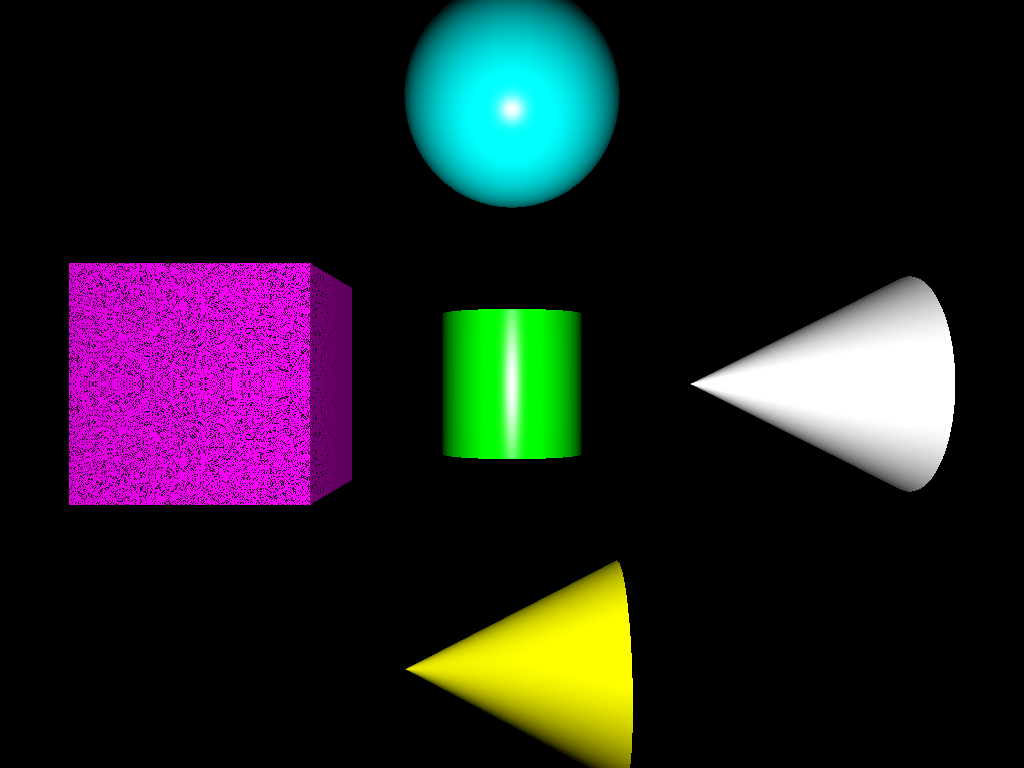
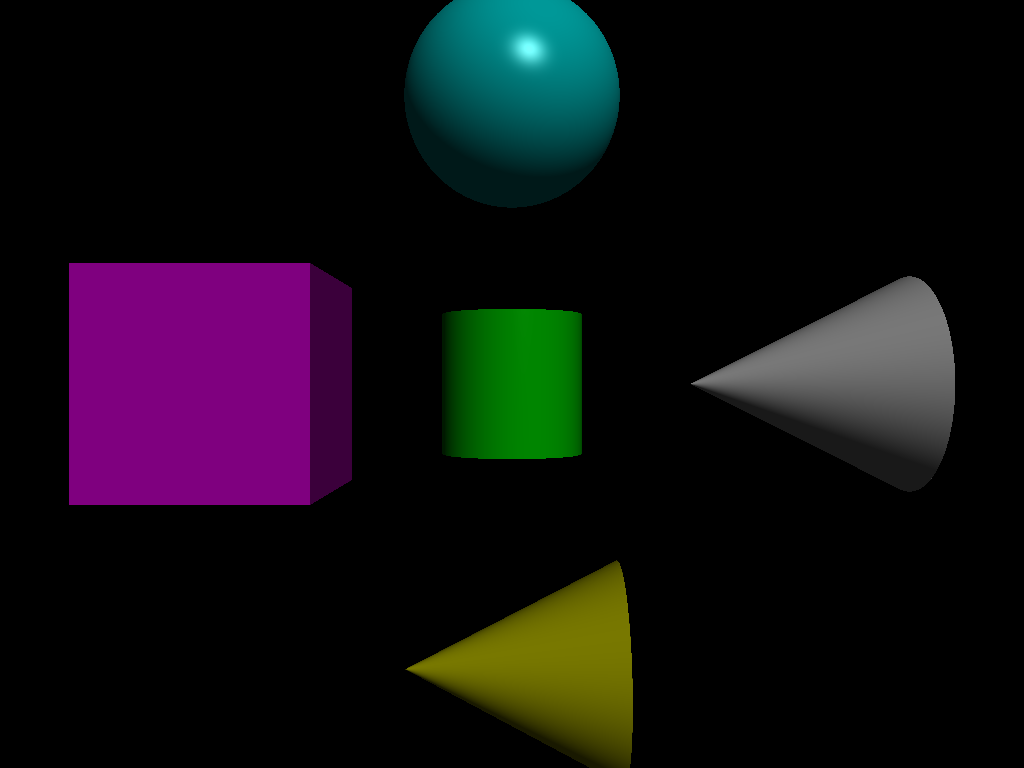
finished

diff --git a/src/shapes/cone.cpp b/src/shapes/cone.cpp
@@ -17,29 +17,39 @@ bool Cone::rayIntersect(const Ray& ray, float& t, glm::vec3& hitPoint, glm::vec3
     std::vector<float> tVals = std::vector<float>();
 
     // Conical Top Intersection
-    float t1 = (-b + glm::sqrt(d)) / (2 * a);
-    float t2 = (-b - glm::sqrt(d)) / (2 * a);
+    if (!(d < 0)) {
 
-    glm::vec3 p1 = ray.origin + t1 * ray.direction;
-    glm::vec3 p2 = ray.origin + t2 * ray.direction;
+        float t1 = (-b + glm::sqrt(d)) / (2 * a);
+        float t2 = (-b - glm::sqrt(d)) / (2 * a);
 
-    if ((p1.y < 0.5 && p1.y > -0.5) && t1 > 0) tVals.push_back(t1);
-    if ((p2.y < 0.5 && p2.y > -0.5) && t2 > 0) tVals.push_back(t2);
+        glm::vec3 p1 = ray.origin + t1 * ray.direction;
+        glm::vec3 p2 = ray.origin + t2 * ray.direction;
+
+        if ((p1.y < 0.5 && p1.y > -0.5) && t1 > 0) tVals.push_back(t1);
+        if ((p2.y < 0.5 && p2.y > -0.5) && t2 > 0) tVals.push_back(t2);
+
+    }
 
     // Base Intersection
-    float t3 = (base - ray.origin.y) / ray.direction.y;
-    glm::vec3 p3 = ray.origin + t3 * ray.direction;
+    if (ray.direction.y != 0){
 
-    if ((((p3.x * p3.x) + (p3.z * p3.z)) < 0.25) && t3 > 0) tVals.push_back(t3);
+        float t3 = (base - ray.origin.y) / ray.direction.y;
+        glm::vec3 p3 = ray.origin + t3 * ray.direction;
+
+        if ((((p3.x * p3.x) + (p3.z * p3.z)) < 0.25) && t3 > 0) tVals.push_back(t3);
+
+    }
 
     if (!tVals.empty()) {
 
         t = *std::min_element(tVals.begin(), tVals.end());
         hitPoint = ray.origin + t * ray.direction;
-        if (hitPoint.y == -0.5) {
-            normal = glm::normalize(glm::vec3(0, -1, 0));
+
+        const float epsilon = 0.0001f;
+        if (abs(hitPoint.y + 0.5f) < epsilon) {
+            normal = glm::vec3(0, -1, 0);
         } else {
-            normal = glm::normalize(glm::vec3(hitPoint.x, (0.5 - hitPoint.y) / 4, hitPoint.z));
+            normal = glm::normalize(glm::vec3(hitPoint.x, (0.5f - hitPoint.y) / 4.0f, hitPoint.z));
         }
 
         return true;

diff --git a/src/utils/sceneparser.cpp b/src/utils/sceneparser.cpp
@@ -60,24 +60,26 @@ void nodeTraversal(SceneNode* node, RenderData &renderData, glm::mat4 ctm) {
         return;
     }
 
-    glm::mat4 newCTM = ctm;
+    glm::mat4 culCTM = glm::mat4(1.0f);
+
     for (SceneTransformation* transform : node->transformations) {
         switch (transform->type) {
         case TransformationType::TRANSFORMATION_TRANSLATE:
-            ctm = ctm * getTranslationMatrix(transform->translate[0], transform->translate[1], transform->translate[2]);
+            culCTM *= glm::translate(glm::mat4(1.0f), transform->translate);
             break;
         case TransformationType::TRANSFORMATION_ROTATE:
-            if (transform->rotate[0] == 1) ctm *= getRotationMatrixX(transform->angle);
-            if (transform->rotate[1] == 1) ctm *= getRotationMatrixY(transform->angle);
-            if (transform->rotate[2] == 1) ctm *= getRotationMatrixZ(transform->angle);
+            culCTM *= glm::rotate(glm::mat4(1.0f), transform->angle, transform->rotate);
             break;
         case TransformationType::TRANSFORMATION_SCALE:
-            ctm = ctm * getScalingMatrix(transform->scale[0], transform->scale[1], transform->scale[2]);
+            culCTM *= glm::scale(glm::mat4(1.0f), transform->scale);
             break;
         case TransformationType::TRANSFORMATION_MATRIX:
-            ctm *= transform->matrix;
+            culCTM *= transform->matrix;
+            break;
         }
     }
+
+    ctm *= culCTM;
 
     for (ScenePrimitive* prim : node->primitives) {
         RenderShapeData primitive = {*prim, ctm};

diff --git a/src/shapes/cube.cpp b/src/shapes/cube.cpp
@@ -55,12 +55,13 @@ bool Cube::rayIntersect(const Ray& ray, float& t, glm::vec3& hitPoint, glm::vec3
         t = *std::min_element(tVals.begin(), tVals.end());
         hitPoint = ray.origin + t * ray.direction;
 
-        if (hitPoint.x == 0.5) { normal = glm::normalize(glm::vec3(1, 0, 0)); }
-        else if (hitPoint.x == -0.5) { normal = glm::normalize(glm::vec3(-1, 0, 0)); }
-        else if (hitPoint.y == 0.5) { normal = glm::normalize(glm::vec3(0, 1, 0)); }
-        else if (hitPoint.y == -0.5) { normal = glm::normalize(glm::vec3(0, -1, 0)); }
-        else if (hitPoint.z == 0.5) { normal = glm::normalize(glm::vec3(0, 0, 1)); }
-        else { normal = glm::normalize(glm::vec3(0, 0, -1));}
+        const float epsilon = 0.0001f;
+        if (abs(hitPoint.x - 0.5f) < epsilon) { normal = glm::vec3(1, 0, 0); }
+        else if (abs(hitPoint.x + 0.5f) < epsilon) { normal = glm::vec3(-1, 0, 0); }
+        else if (abs(hitPoint.y - 0.5f) < epsilon) { normal = glm::vec3(0, 1, 0); }
+        else if (abs(hitPoint.y + 0.5f) < epsilon) { normal = glm::vec3(0, -1, 0); }
+        else if (abs(hitPoint.z - 0.5f) < epsilon) { normal = glm::vec3(0, 0, 1); }
+        else { normal = glm::vec3(0, 0, -1); }
 
         return true;
 

diff --git a/src/raytracer/raytracer.cpp b/src/raytracer/raytracer.cpp
@@ -75,6 +75,7 @@ std::shared_ptr<Shape> RayTracer::traceRay(Ray ray,
     glm::vec3 bestNormal;
 
     float smallestT = INFINITY;
+
     std::shared_ptr<Shape> closestIntersectedShape = nullptr;
 
     for (std::shared_ptr<Shape> shape : scene.getShapeData()) {
@@ -136,8 +137,7 @@ RGBA RayTracer::phong(glm::vec3 position,
 
     for (const SceneLightData &light : lights) {
 
-        glm::vec3 lightDirection = glm::normalize(glm::vec3(light.pos) - position);
-
+        glm::vec3 lightDirection = glm::normalize(-glm::vec3(light.dir));
         float ndotl = glm::max(glm::dot(normal, lightDirection), 0.0f);
 
         if (ndotl > 0.0f) {

diff --git a/src/shapes/cylinder.cpp b/src/shapes/cylinder.cpp
@@ -48,13 +48,14 @@ bool Cylinder::rayIntersect(const Ray& ray, float& t, glm::vec3& hitPoint, glm::
         hitPoint = ray.origin + t * ray.direction;
 
         // Normal Calculation
-        if (hitPoint.y == 0.5) {
+        const float epsilon = 0.0001f;
+        if (abs(hitPoint.y - 0.5f) < epsilon) {
 
-            normal = glm::normalize(glm::vec3(0, 1, 0));
+            normal = glm::vec3(0, 1, 0);
 
-        } else if ( hitPoint.y == -0.5) {
+        } else if (abs(hitPoint.y + 0.5f) < epsilon) {
 
-            normal = glm::normalize(glm::vec3(0, -1, 0));
+            normal = glm::vec3(0, -1, 0);
 
         } else {
 
